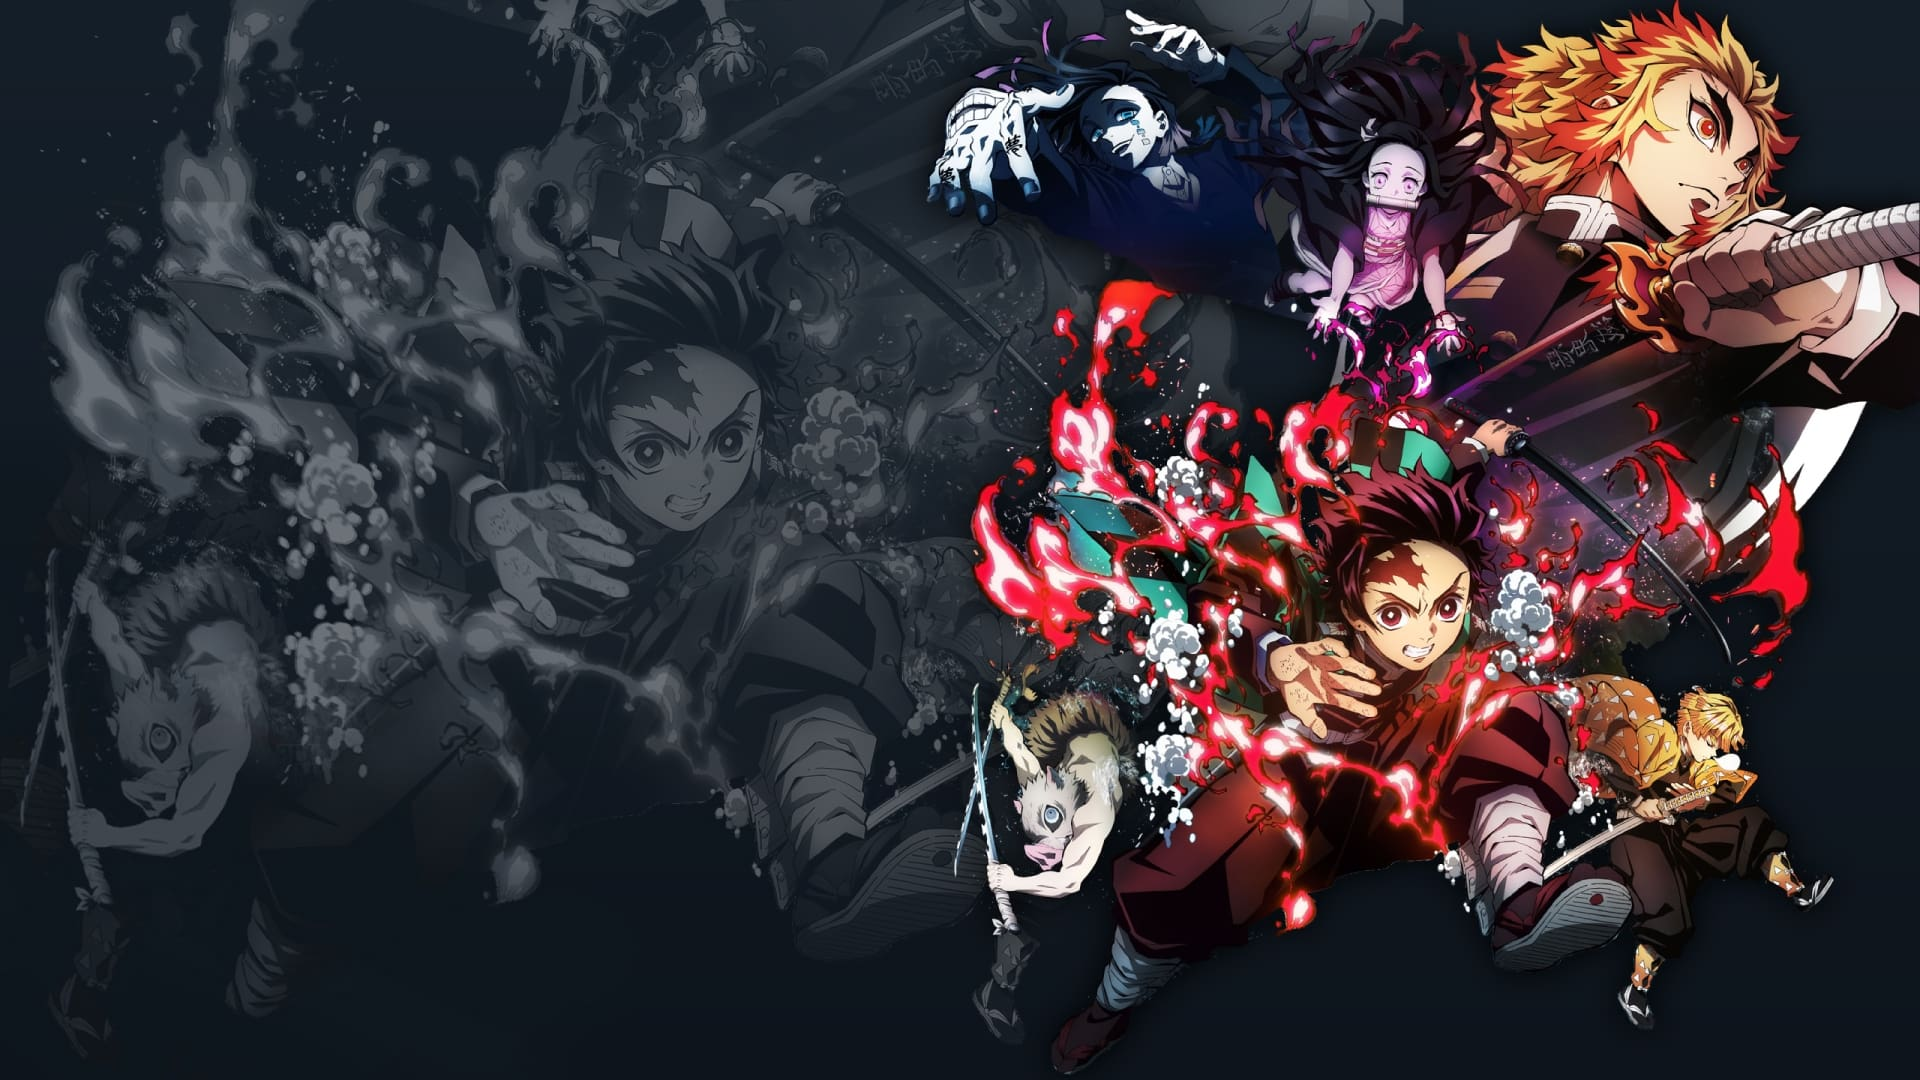
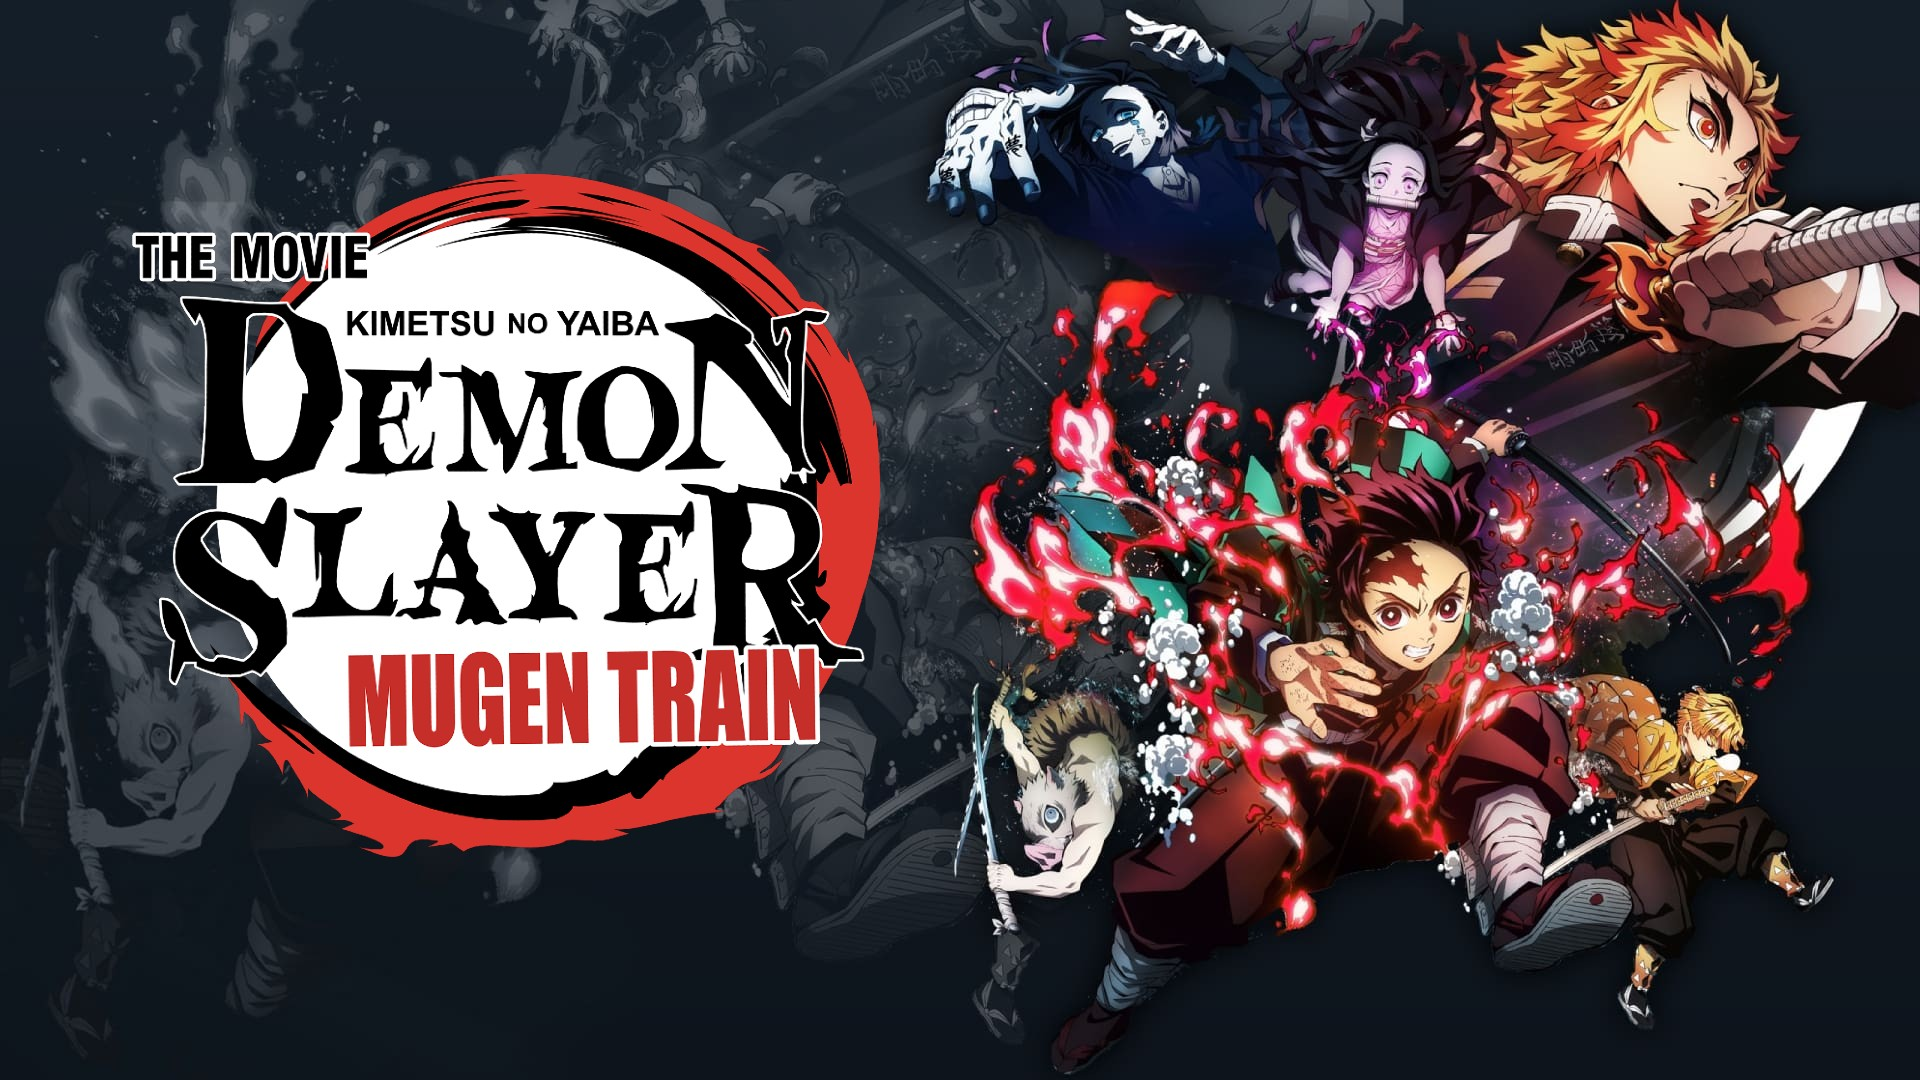
Mudando imagens e a cor da nav bar

Changed region(s): [[0.0625, 0.1528, 0.4688, 0.7944]]

diff --git a/style.css b/style.css
@@ -18,7 +18,7 @@ body {
   flex-wrap: wrap;
   justify-content: space-between;
   align-items: center;
-  background: tomato;
+  background: rgb(46, 46, 46);
   margin-bottom: 50px;
   padding: 10px;
 }
